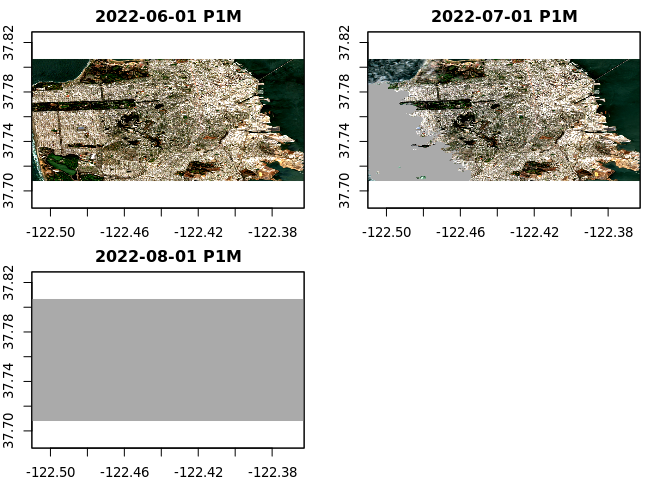
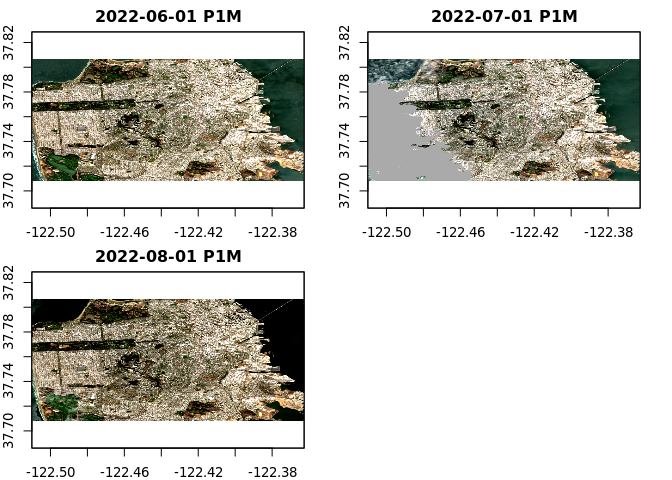
212121

Changed region(s): [[0.0312, 0.625, 0.4688, 0.875]]

diff --git a/assignment/spatial-assignment.md b/assignment/spatial-assignment.md
@@ -137,7 +137,7 @@ product in most place of America.
 ## STAC Search over 400 million assets.
 box <- st_bbox(sf) 
 start_date <- "2022-06-01"
-end_date <- "2022-08-01"
+end_date <- "2022-09-01"
 items <- 
   stac("https://earth-search.aws.element84.com/v0/") |>
   stac_search(collections = "sentinel-s2-l2a-cogs",
@@ -185,16 +185,16 @@ ave_ndvi
     ## # A tibble: 97 × 3
     ##      FID time        NDVI
     ##    <int> <chr>      <dbl>
-    ##  1     1 2022-06-01 0.309
-    ##  2     2 2022-06-01 0.411
-    ##  3     3 2022-06-01 0.388
-    ##  4     4 2022-06-01 0.254
-    ##  5     5 2022-06-01 0.299
-    ##  6     6 2022-06-01 0.390
-    ##  7     7 2022-06-01 0.302
-    ##  8     8 2022-06-01 0.239
+    ##  1     1 2022-06-01 0.315
+    ##  2     2 2022-06-01 0.407
+    ##  3     3 2022-06-01 0.387
+    ##  4     4 2022-06-01 0.246
+    ##  5     5 2022-06-01 0.303
+    ##  6     6 2022-06-01 0.394
+    ##  7     7 2022-06-01 0.304
+    ##  8     8 2022-06-01 0.238
     ##  9     9 2022-06-01 0.310
-    ## 10    10 2022-06-01 0.283
+    ## 10    10 2022-06-01 0.269
     ## # ℹ 87 more rows
 
 ``` r
@@ -203,8 +203,8 @@ ndvi2
 
     ## stars object with 3 dimensions and 1 attribute
     ## attribute(s):
-    ##            Min.    1st Qu.    Median      Mean   3rd Qu.      Max. NA's
-    ## NDVI  -0.867543 0.02683389 0.1114082 0.1533023 0.2895219 0.9340307   44
+    ##             Min.    1st Qu.    Median      Mean  3rd Qu.      Max.
+    ## NDVI  -0.7859753 0.02700993 0.1098709 0.1478841 0.286732 0.9319921
     ## dimension(s):
     ##      from   to offset      delta  refsys point                  values x/y
     ## x       1 1000 -122.5  0.0001474  WGS 84    NA                    NULL [x]
@@ -260,16 +260,16 @@ ave_ndvi |> as_tibble()
     ## # A tibble: 97 × 3
     ##      FID time        NDVI
     ##    <int> <chr>      <dbl>
-    ##  1     1 2022-06-01 0.309
-    ##  2     2 2022-06-01 0.411
-    ##  3     3 2022-06-01 0.388
-    ##  4     4 2022-06-01 0.254
-    ##  5     5 2022-06-01 0.299
-    ##  6     6 2022-06-01 0.390
-    ##  7     7 2022-06-01 0.302
-    ##  8     8 2022-06-01 0.239
+    ##  1     1 2022-06-01 0.315
+    ##  2     2 2022-06-01 0.407
+    ##  3     3 2022-06-01 0.387
+    ##  4     4 2022-06-01 0.246
+    ##  5     5 2022-06-01 0.303
+    ##  6     6 2022-06-01 0.394
+    ##  7     7 2022-06-01 0.304
+    ##  8     8 2022-06-01 0.238
     ##  9     9 2022-06-01 0.310
-    ## 10    10 2022-06-01 0.283
+    ## 10    10 2022-06-01 0.269
     ## # ℹ 87 more rows
 
 ``` r
@@ -316,9 +316,9 @@ ndvi_poly |> as_tibble() |>
     ##   holc_grade mean_NDVI
     ##   <chr>          <dbl>
     ## 1 A              0.316
-    ## 2 B              0.210
-    ## 3 C              0.194
-    ## 4 D              0.193
+    ## 2 B              0.209
+    ## 3 C              0.192
+    ## 4 D              0.192
 
 ## Fresno as Comparison
 
